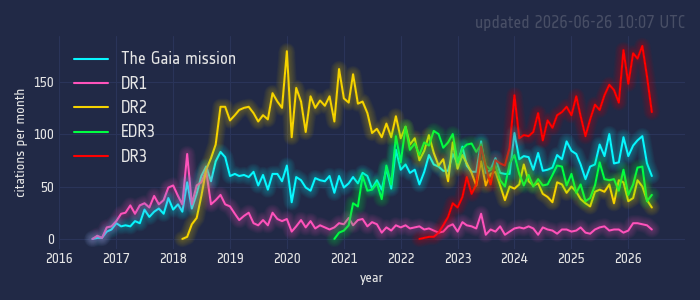
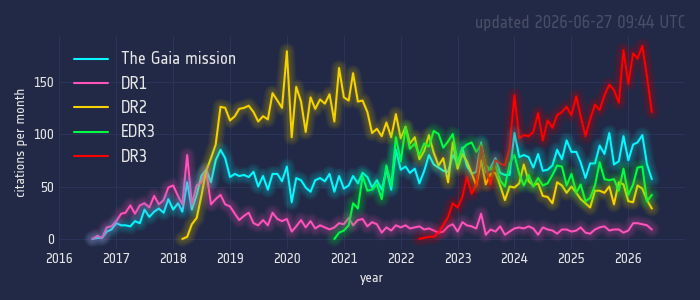
Updated plot on Sat Jun 27 09:44:59 UTC 2026 with GitHub Actions

diff --git a/ads-citations-plotly.html b/ads-citations-plotly.html
@@ -2,6 +2,6 @@
 <head><meta charset="utf-8" /></head>
 <body>
     <div style="height:100%; width:100%;">                        <script>window.PlotlyConfig = {MathJaxConfig: 'local'};</script>
[2 lines of base64/hex data omitted]
 </body>
 </html>